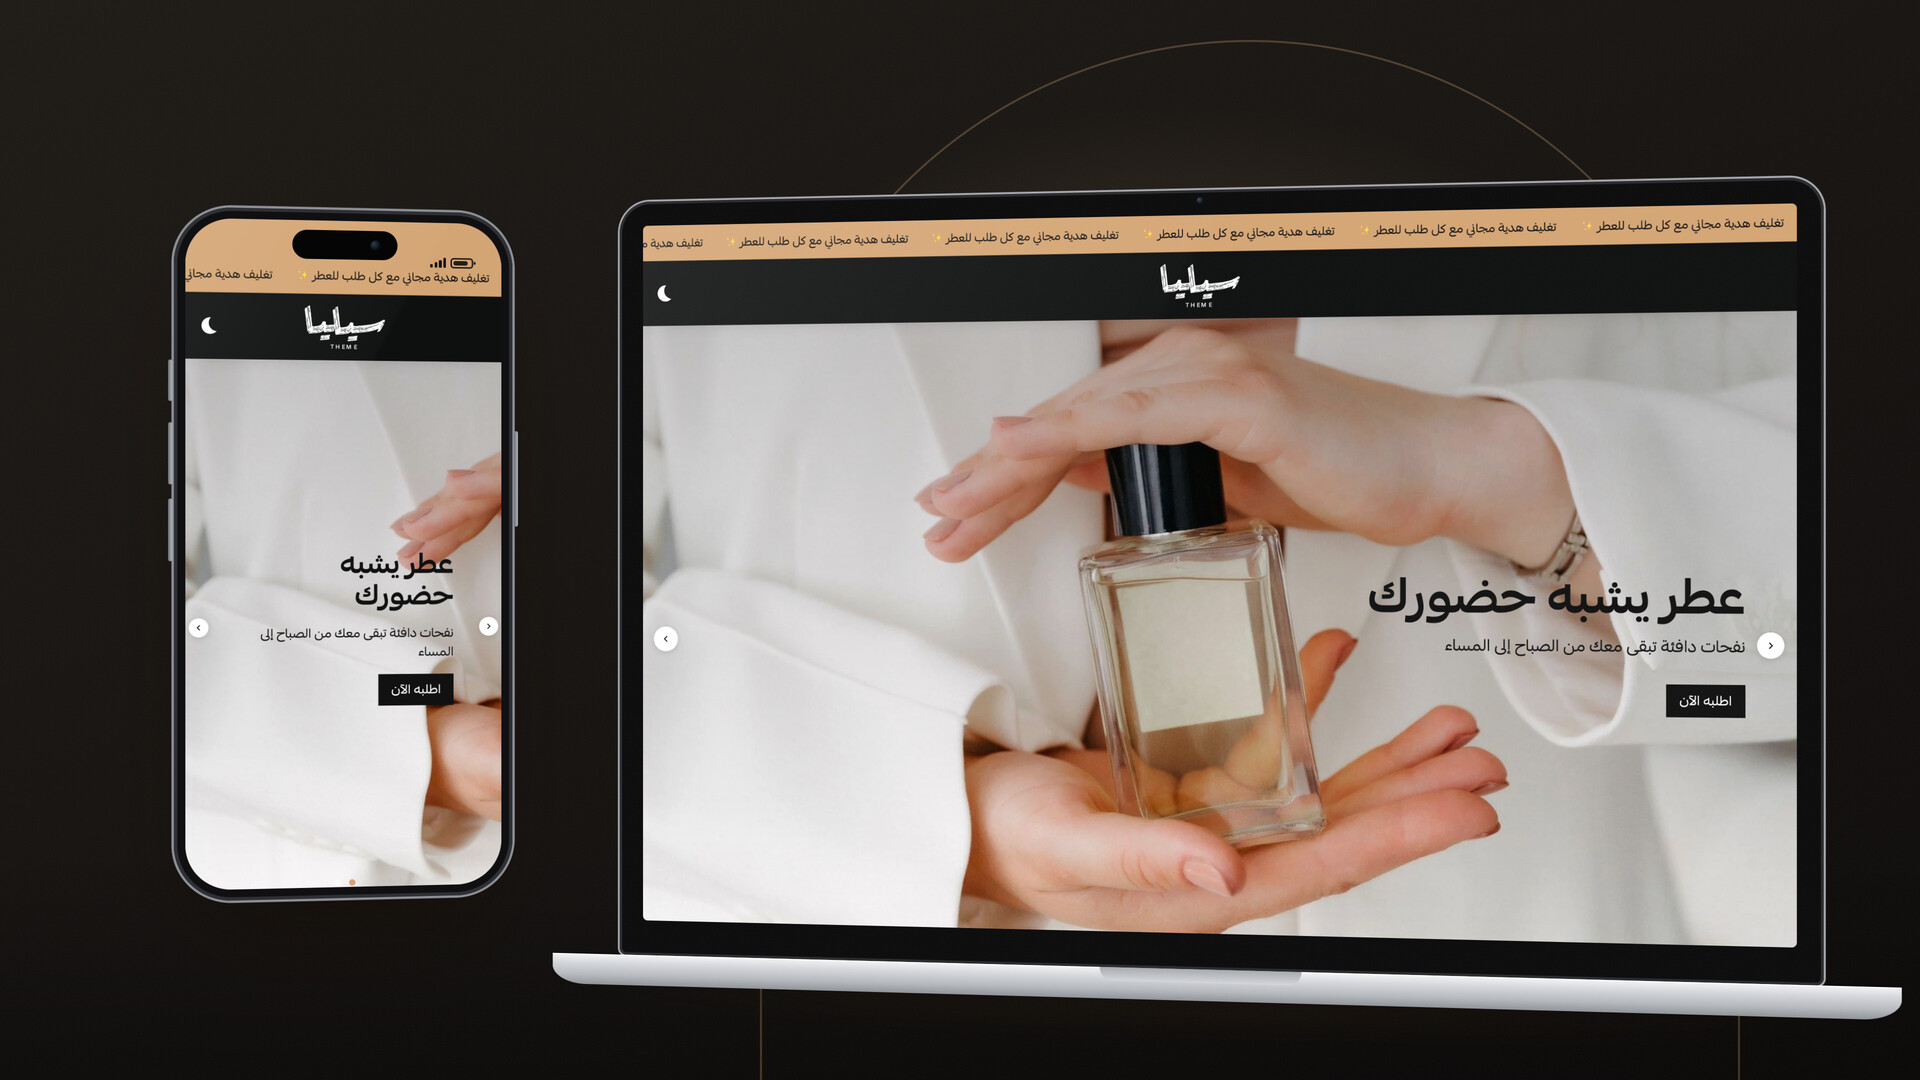
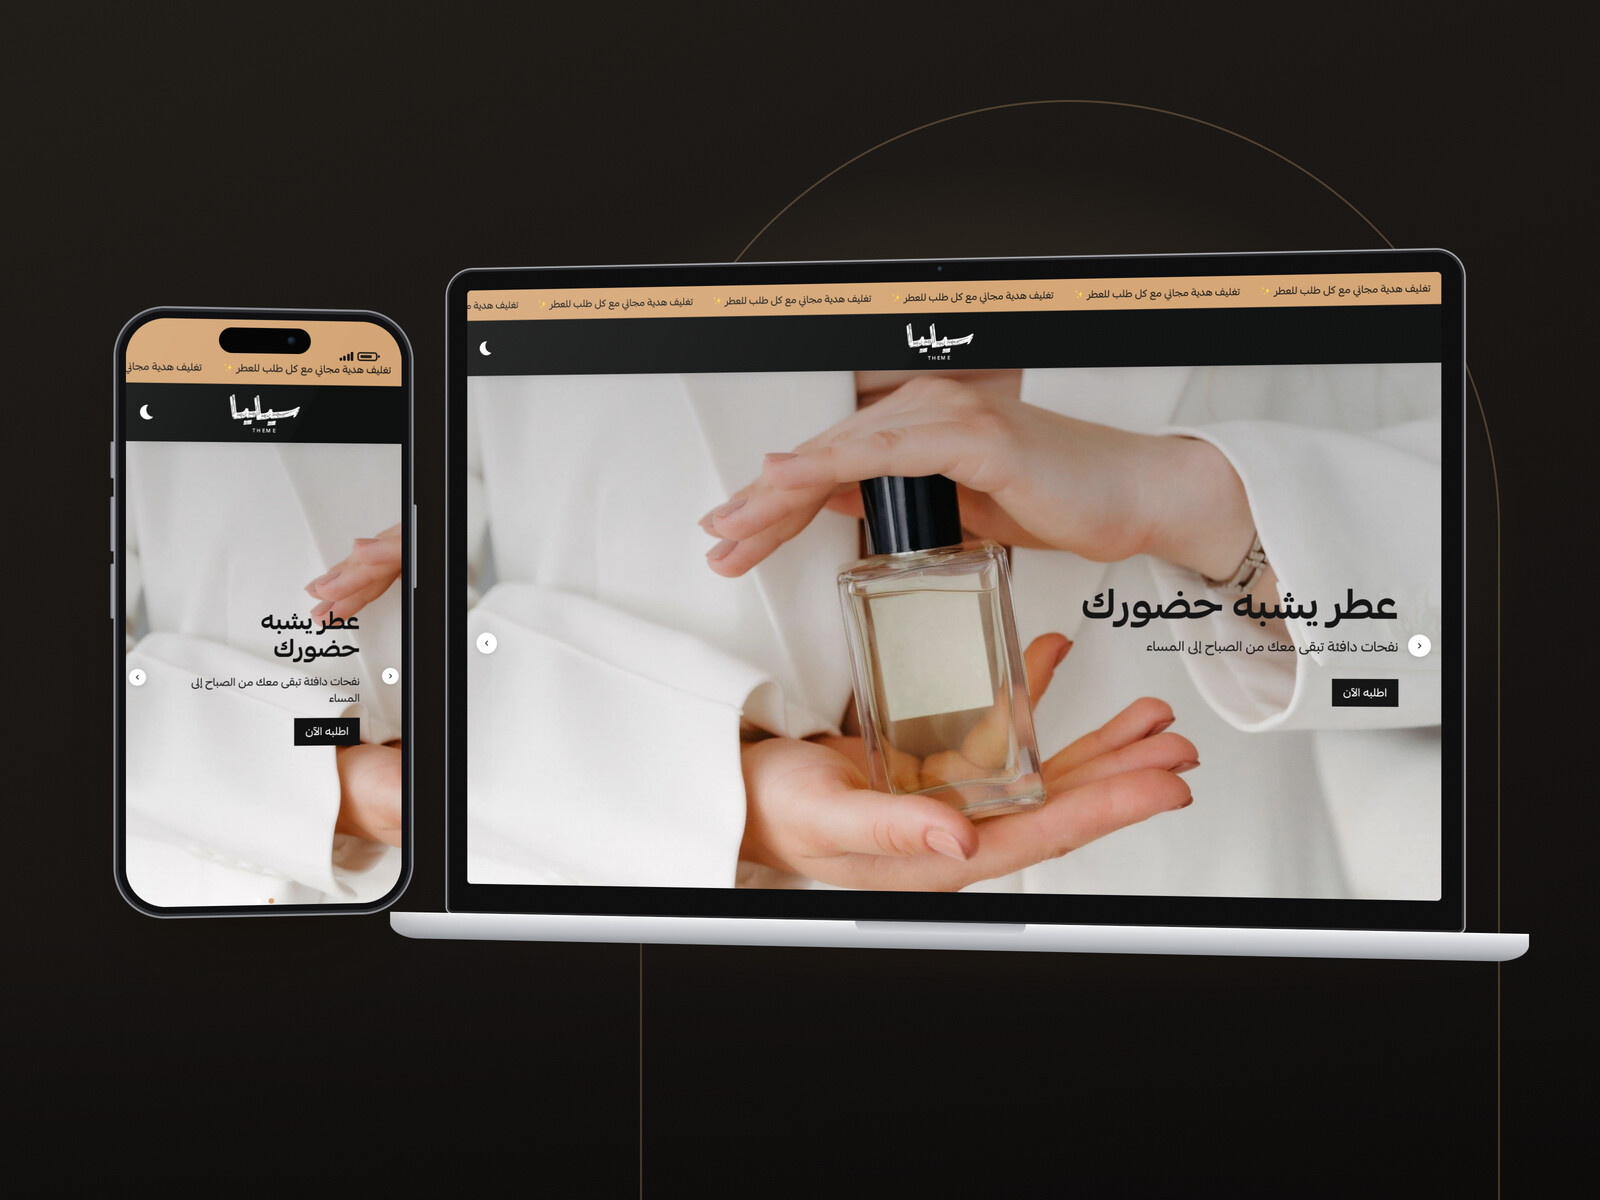
Re-render the listing mockups at the 1600x1200 the Partners Portal requires

diff --git a/scripts/mockups/scene.html b/scripts/mockups/scene.html
@@ -3,18 +3,18 @@
 <head>
 <meta charset="utf-8" />
 <title>Marketplace mockups</title>
-<!-- Rendered by scripts/make-marketplace.sh at 1920x1080, scale 2. ?scene=1..6, screens from ./screens -->
+<!-- Rendered by scripts/make-marketplace.sh at 1600x1200 (the Partners Portal size), scale 2. ?scene=1..6, screens from ./screens -->
 <style>
   * { box-sizing: border-box; margin: 0; padding: 0; }
-  html, body { width: 1920px; height: 1080px; overflow: hidden; }
-  .stage { position: relative; width: 1920px; height: 1080px; overflow: hidden; perspective: 2600px; }
+  html, body { width: 1600px; height: 1200px; overflow: hidden; }
+  .stage { position: relative; width: 1600px; height: 1200px; overflow: hidden; perspective: 2600px; }
 
   /* Backdrops */
   .light { background: radial-gradient(900px 620px at 24% 18%, #fffaf3 0%, rgb(255 250 243 / 0%) 70%), linear-gradient(165deg, #f6eee3 0%, #ead9c4 100%); }
   .dark { background: radial-gradient(760px 560px at 62% 46%, rgb(212 165 116 / 30%) 0%, rgb(212 165 116 / 0%) 70%), linear-gradient(160deg, #1d1915 0%, #0c0a09 100%); }
   .split { background: linear-gradient(90deg, #f3e9dc 0%, #ead9c4 50%, #191512 50%, #0c0a09 100%); }
   .blend { background: radial-gradient(700px 500px at 50% 60%, rgb(212 165 116 / 26%) 0%, rgb(212 165 116 / 0%) 70%), linear-gradient(115deg, #f2e7d8 0%, #e3cfb5 42%, #2a231d 58%, #0d0b0a 100%); }
-  .floor { position: absolute; inset: auto 0 0 0; height: 230px; }
+  .floor { position: absolute; inset: auto 0 0 0; height: 280px; }
   .light .floor, .blend .floor { background: linear-gradient(180deg, rgb(201 170 132 / 0%) 0%, rgb(201 170 132 / 22%) 100%); }
   .dark .floor { background: linear-gradient(180deg, rgb(0 0 0 / 0%) 0%, rgb(0 0 0 / 35%) 100%); }
   .arch { position: absolute; border-radius: 999px 999px 0 0; }
@@ -77,20 +77,20 @@
   const arch = (cls, x, y, w, h) => `<div class="arch ${cls}" style="left:${x}px;top:${y}px;width:${w}px;height:${h}px"></div>`;
 
   const scenes = {
-    1: ["light", arch("fill", 520, 90, 880, 1000) + arch("line", 470, 40, 980, 1060) +
-        mac("d-abaya-top", 150, 190, 1200, "rotateY(9deg)") + phone("m-abaya-top", 1400, 210, 330, "rotateY(-10deg)", 2)],
-    2: ["light", arch("fill", 1040, 110, 760, 980) + arch("line", 990, 60, 860, 1040) +
-        mac("d-abaya-product", 700, 200, 1080, "rotateY(-9deg)") + phone("m-abaya-product", 200, 150, 360, "rotateY(10deg)", 2)],
-    3: ["dark", arch("line", 760, 40, 980, 1060) +
-        mac("d-perfume-top", 600, 190, 1200, "rotateY(-9deg)") + phone("m-perfume-top", 180, 210, 330, "rotateY(10deg)", 2)],
-    4: ["split", arch("line", 230, 120, 600, 980) + arch("line on-dark", 1090, 120, 600, 980) +
-        phone("m-abaya-product", 560, 120, 380, "rotateY(12deg)") + phone("m-abaya-product-dark", 980, 120, 380, "rotateY(-12deg)")],
-    5: ["light", arch("fill", 300, 90, 880, 1000) + arch("line", 250, 40, 980, 1060) +
-        mac("d-abaya-banners", 130, 190, 1200, "rotateY(9deg)") + phone("m-perfume-banners", 1410, 210, 330, "rotateY(-10deg)", 2)],
-    6: ["blend", arch("line", 610, 60, 700, 1020) +
-        phone("m-abaya-top", 300, 190, 320, "rotateY(18deg) rotateZ(-3deg)", 1) +
-        phone("m-perfume-product", 790, 110, 350, "translateZ(60px)", 3) +
-        phone("m-abaya-faq", 1300, 190, 320, "rotateY(-18deg) rotateZ(3deg)", 1)],
+    1: ["light", arch("fill", 400, 150, 760, 1050) + arch("line", 350, 100, 860, 1100) +
+        mac("d-abaya-top", 150, 260, 1020, "rotateY(9deg)") + phone("m-abaya-top", 1190, 310, 290, "rotateY(-10deg)", 2)],
+    2: ["light", arch("fill", 820, 150, 640, 1050) + arch("line", 770, 100, 740, 1100) +
+        mac("d-abaya-product", 560, 270, 960, "rotateY(-9deg)") + phone("m-abaya-product", 120, 230, 340, "rotateY(10deg)", 2)],
+    3: ["dark", arch("line", 640, 100, 860, 1100) +
+        mac("d-perfume-top", 430, 260, 1020, "rotateY(-9deg)") + phone("m-perfume-top", 120, 310, 290, "rotateY(10deg)", 2)],
+    4: ["split", arch("line", 170, 150, 520, 1050) + arch("line on-dark", 910, 150, 520, 1050) +
+        phone("m-abaya-product", 370, 180, 400, "rotateY(12deg)") + phone("m-abaya-product-dark", 830, 180, 400, "rotateY(-12deg)")],
+    5: ["light", arch("fill", 250, 150, 760, 1050) + arch("line", 200, 100, 860, 1100) +
+        mac("d-abaya-banners", 150, 260, 1020, "rotateY(9deg)") + phone("m-perfume-banners", 1190, 310, 290, "rotateY(-10deg)", 2)],
+    6: ["blend", arch("line", 500, 90, 600, 1110) +
+        phone("m-abaya-top", 150, 280, 320, "rotateY(18deg) rotateZ(-3deg)", 1) +
+        phone("m-perfume-product", 625, 190, 350, "translateZ(60px)", 3) +
+        phone("m-abaya-faq", 1130, 280, 320, "rotateY(-18deg) rotateZ(3deg)", 1)],
   };
   const [bg, html] = scenes[scene];
   const stage = document.getElementById("stage");

diff --git a/marketplace/LISTING.md b/marketplace/LISTING.md
@@ -25,7 +25,7 @@ Two ready templates, each built around one product and using every section, with
 
 ## Screenshots (upload in this order)
 
-Device mockups, 1920x1080, no added text or logos.
+Device mockups, 1600x1200 (the size the Partners Portal requires), no added text or logos.
 
 | File | Title AR | Title EN | Description AR | Description EN |
 |---|---|---|---|---|
